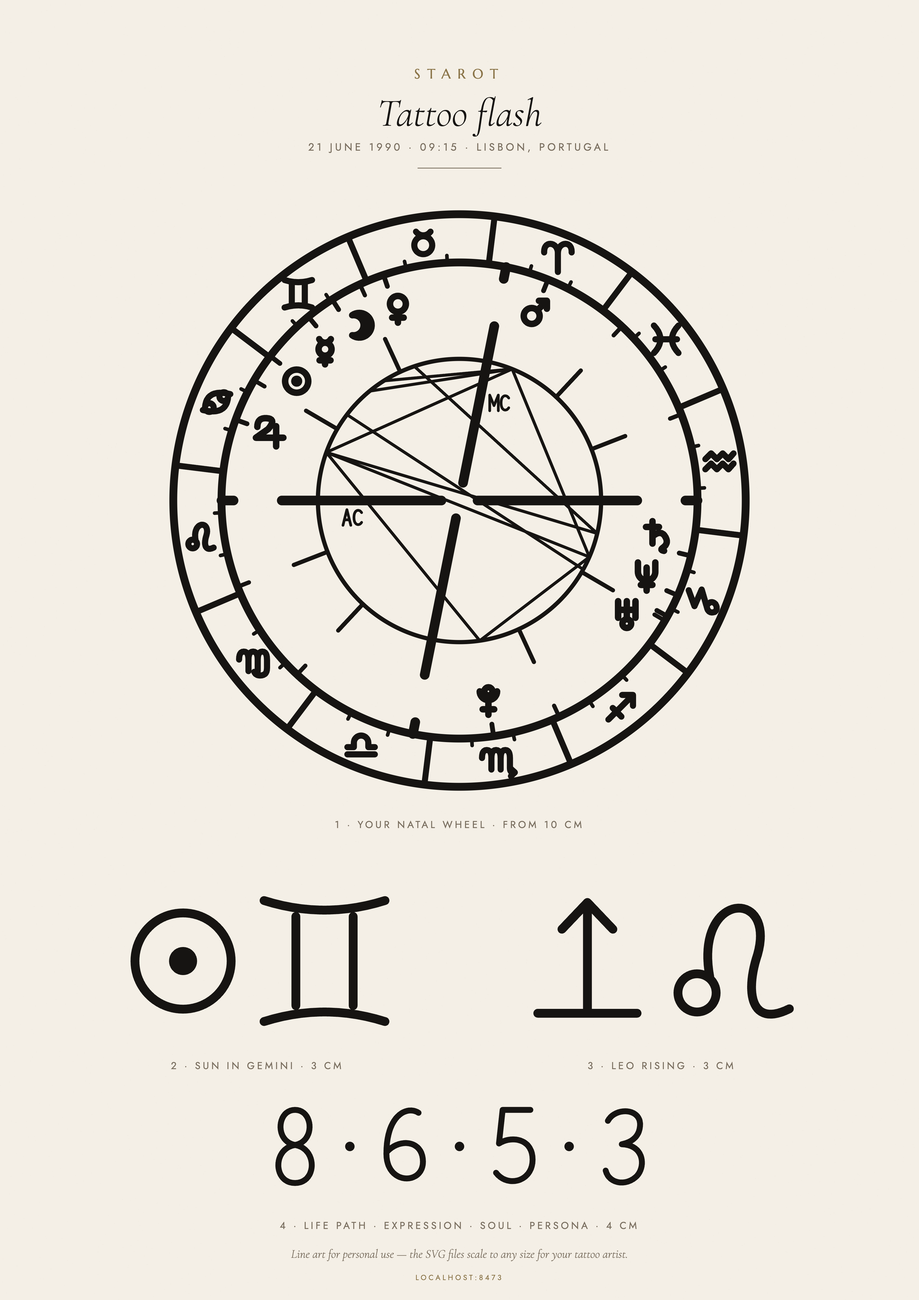
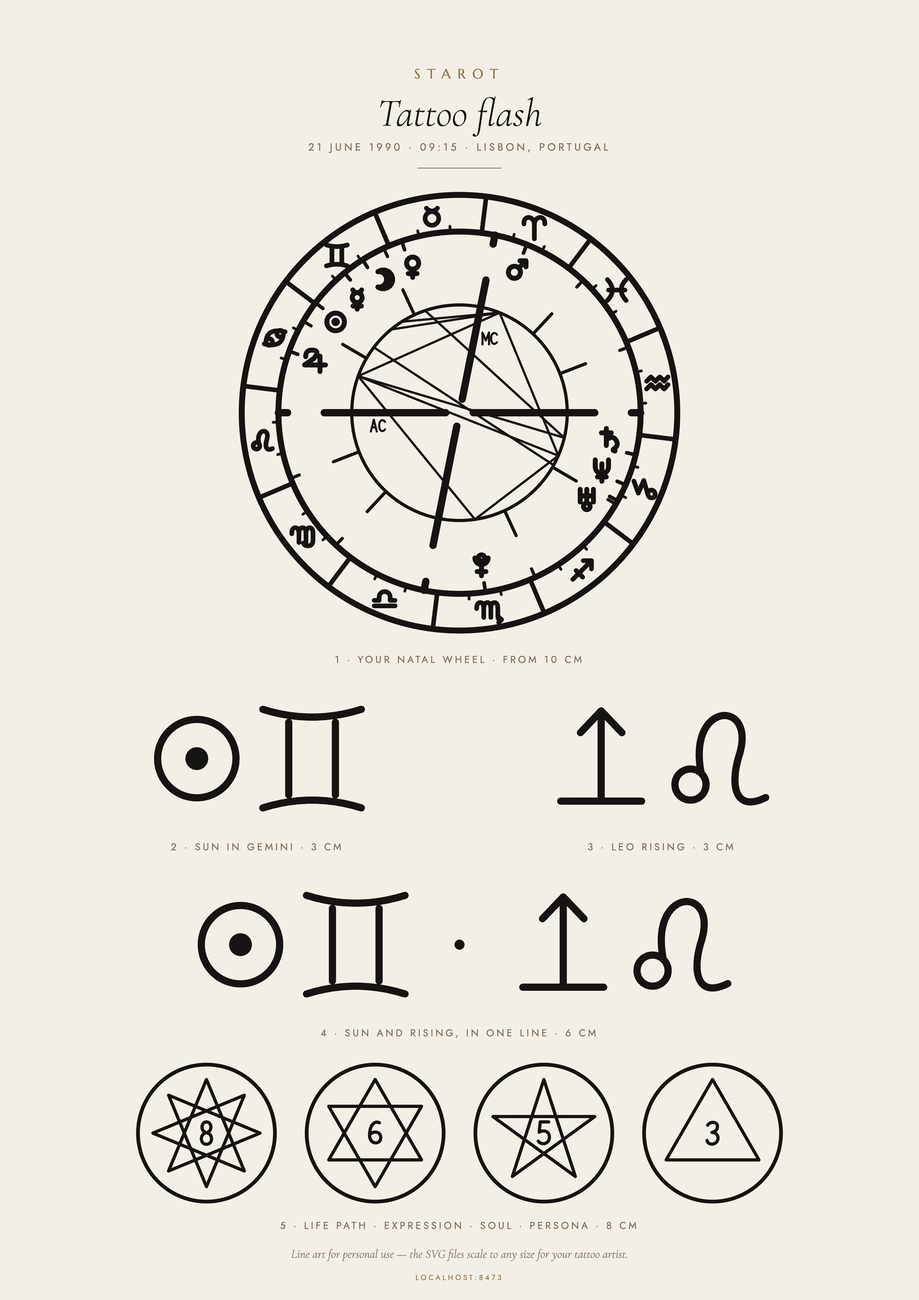
Five tattoo designs; the numbers become their seals
The flash sheet now carries five designs: 1 the natal wheel, 2 ☉ with
the Sun's sign, 3 the ascendant arrow with the rising sign, 4 both of
those in one line, and 5 Life Path · Expression · Soul · Persona drawn
as their seals — circle, figure and numeral, as in the readings — in a
row. The seals get heavier strokes in the tattoo row so they hold up
at small sizes. Without a birth hour, 3 and 4 drop out and the sheet
carries three designs with its own layout.

Also removes stale Portuguese strings that were overriding the new
unlock dialog text, and updates the showcase, unlock list, terms, docs
and example design files.

diff --git a/index.html b/index.html
@@ -383,7 +383,7 @@
   .ink-door{border-color:rgba(216,184,119,.42);background:radial-gradient(ellipse 120% 90% at 50% 0%,rgba(216,184,119,.08),rgba(5,6,9,.45) 70%)}
   .showcase{display:grid;grid-template-columns:1fr 1.25fr;gap:10px;width:min(620px,92vw)}
   .showcase figure{border:1px solid var(--hair);border-radius:12px;background:rgba(5,6,9,.5);padding:12px 14px 10px;display:flex;flex-direction:column;gap:8px;justify-content:center}
-  .showcase figure.big{grid-row:span 3}
+  .showcase figure.big{grid-row:span 4}
   .showcase .sc svg{width:100%;height:auto;display:block}
   .showcase figcaption{font-family:'Jost';font-size:8.5px;letter-spacing:.22em;text-transform:uppercase;color:var(--gold-dim);text-align:left}
   .showcase figcaption b{color:var(--gold);font-weight:400;margin-right:8px}
@@ -502,7 +502,7 @@
       </button>
       <button class="door ink-door" data-go="ink">
         <span class="glyph">✒</span>
-        <div><h3 data-t="door.ink.h">Your tattoos</h3><p data-t="door.ink.p">Your sky and your numbers, drawn as four tattoo designs on one flash sheet.</p><span class="tag" id="inkTag">€7</span></div>
+        <div><h3 data-t="door.ink.h">Your tattoos</h3><p data-t="door.ink.p">Your sky and your numbers, drawn as five tattoo designs on one flash sheet.</p><span class="tag" id="inkTag">€7</span></div>
         <span class="label" data-t="door.ink.l">The ink</span>
       </button>
     </div>
@@ -542,7 +542,7 @@
        The stars will turn back to that night and draw the wheel.</p>
     <span class="label ink-only" data-t="ink.label" hidden>Your readings, worn</span>
     <h1 class="ink-only" data-t="ink.h1" hidden>Wear your<br><em>sky.</em></h1>
-    <p class="ink-only" data-t="ink.p" hidden>Four tattoo designs drawn from your own chart and your own numbers. Preview them free;
+    <p class="ink-only" data-t="ink.p" hidden>Five tattoo designs drawn from your own chart and your own numbers. Preview them free;
        the print-ready flash sheet and the files for your tattoo artist are the one thing here that costs money.</p>
     <div class="showcase ink-only" id="showcase" hidden></div>
     <div class="saved" id="savedMaps" hidden></div>
@@ -631,13 +631,14 @@
   <div class="offer-box">
     <button class="offer-close" id="unlockClose" aria-label="Close">✕</button>
     <span class="label" data-t="unlock.label">Your tattoo flash</span>
-    <h3 id="unlockTitle" data-t="unlock.h">Four designs, yours to wear</h3>
+    <h3 id="unlockTitle" data-t="unlock.h">Your designs, yours to wear</h3>
     <span class="for" id="unlockFor"></span>
     <ul class="gets">
       <li><i>✶</i><span data-t="get.wheel"><b>Your natal wheel</b> — the whole sky of your birth, as one piece</span></li>
       <li><i>☉</i><span data-t="get.sun"><b>☉ beside your Sun sign</b> — small, for a wrist or an ankle</span></li>
       <li id="getRising"><i>↑</i><span data-t="get.rising"><b>↑ beside your Rising sign</b> — how you arrive, worn</span></li>
-      <li><i>⁂</i><span data-t="get.nums"><b>Your numbers in a row</b> — Life Path, Expression, Soul, Persona</span></li>
+      <li id="getSky"><i>☉</i><span data-t="get.sky"><b>Both in one line</b> — ☉ and ↑ with their signs, side by side</span></li>
+      <li><i>⁂</i><span data-t="get.nums"><b>Your numbers as seals, in a row</b> — Life Path, Expression, Soul, Persona, as drawn in your reading</span></li>
       <li><i>↓</i><span data-t="get.files"><b>A print-ready flash sheet</b> with them all, and each design as vector SVG and 4000 px PNG for your tattoo artist</span></li>
     </ul>
     <div class="price"><b id="unlockPrice">€7</b><span data-t="price.note">One payment<br>yours for good</span></div>
@@ -727,7 +728,7 @@ const UI_PT={
   'door.tarot.h':'Leitura de tarô','door.tarot.p':'Três arcanos — passado, presente, futuro — tirados dos vinte e dois.','door.tarot.l':'As cartas',
   'door.astro.h':'Mapa astral','door.astro.p':'O céu como estava quando você nasceu — planetas, casas, o ascendente.','door.astro.l':'A roda',
   'door.num.h':'Numerologia','door.num.p':'Os números escondidos no seu nome e na sua data — o caminho, a voz, a porta.',
-  'door.ink.h':'As suas tatuagens','door.ink.p':'O seu céu e os seus números, desenhados como quatro tatuagens numa folha de flash.','door.ink.l':'A tinta','door.num.l':'O selo',
+  'door.ink.h':'As suas tatuagens','door.ink.p':'O seu céu e os seus números, desenhados como cinco tatuagens numa folha de flash.','door.ink.l':'A tinta','door.num.l':'O selo',
   'free':'Grátis',
   'legal.terms':'Termos e privacidade','legal.share':'Compartilhar o observatório','legal.ent':'Para reflexão e entretenimento',
   'tarot.label':'Uma leitura em poeira de estrelas',
@@ -740,15 +741,13 @@ const UI_PT={
   'astro.label':'O céu na hora do seu nascimento',
   'astro.h1':'Onde estavam<br><em>os planetas?</em>',
   'astro.p':'Conte ao observatório a sua data, a sua hora e o lugar onde você respirou pela primeira vez. As estrelas vão voltar àquela noite e desenhar a roda.',
-  'ledger.free':'A roda em estrelas · o seu Sol',
-  'ledger.paid':'Um pôster em estrelas do seu céu · traço pronto para tatuagem · Lua · Ascendente · casas · aspectos · os dez planetas lidos',
   'f.hour':'Hora','f.min':'Minuto','f.notime':'Não sei a hora','f.place':'Cidade natal',
   'f.manual':'Minha cidade não está na lista — informar coordenadas','f.tz':'Fuso horário',
   'ph.city':'Comece a digitar uma cidade…',
   'cast':'☉ &nbsp;Desenhar o mapa',
   'privacy':'Calculado no seu navegador. O seu nome nunca sai desta página.',
   'ink.label':'As suas leituras, na pele','ink.h1':'Leve o seu céu<br><em>na pele.</em>',
-  'ink.p':'Quatro desenhos de tatuagem feitos a partir do seu mapa e dos seus números. Veja grátis; a folha de flash pronta para imprimir e os arquivos para o seu tatuador são a única coisa paga aqui.',
+  'ink.p':'Cinco desenhos de tatuagem feitos a partir do seu mapa e dos seus números. Veja grátis; a folha de flash pronta para imprimir e os arquivos para o seu tatuador são a única coisa paga aqui.',
   'f.iname':'Nome completo de nascimento — para os seus números','inkGo':'✒ &nbsp;Desenhar as minhas tatuagens',
   'num.label':'A aritmética de uma vida',
   'num.h1':'Todo nome é<br><em>um número.</em>',
@@ -761,24 +760,18 @@ const UI_PT={
   'offer.label':'Mantenha as lâmpadas acesas','offer.h':'Uma oferenda',
   'offer.p':'O observatório funciona com luz das estrelas e pequenas gentilezas. Se as estrelas disseram algo verdadeiro — ou algo útil, mesmo que não seja verdade — você pode deixar uma moeda no escuro. As estrelas reparam.',
   'offer.link':'✦ &nbsp;Fazer uma oferenda','offer.note':'A tigela de oferendas ainda está sendo esculpida — em breve.',
-  'unlock.label':'A sua folha de flash','unlock.h':'Quatro desenhos, para usar na pele',
+  'unlock.label':'A sua folha de flash','unlock.h':'Os seus desenhos, para usar na pele',
   'get.wheel':'<b>A sua roda natal</b> — o céu inteiro do seu nascimento, numa só peça',
   'get.sun':'<b>☉ ao lado do seu signo solar</b> — pequena, para o pulso ou o tornozelo',
   'get.rising':'<b>↑ ao lado do seu ascendente</b> — o jeito como você chega, na pele',
-  'get.nums':'<b>Os seus números numa linha</b> — Caminho, Expressão, Alma, Persona',
+  'get.sky':'<b>Os dois numa linha</b> — ☉ e ↑ com os seus signos, lado a lado',
+  'get.nums':'<b>Os seus números em selos, numa linha</b> — Caminho, Expressão, Alma, Persona, como na sua leitura',
   'get.files':'<b>Uma folha de flash pronta para imprimir</b> com todos eles, e cada desenho em SVG vetorial e PNG de 4000 px para o seu tatuador',
   'price.note':'Um pagamento só<br>seus para sempre',
   'unlockGo':'✒ &nbsp;Quero a minha folha','st.buy':'✒ &nbsp;Quero a minha folha',
   'trust':'Pagamento seguro pela Stripe · cartão · Apple Pay · Google Pay<br>Os dados do seu nascimento e os seus quatro números vão junto com o pagamento, para que o seu link possa reabrir a folha — o seu nome nunca vai · <a href="termos.html" target="_blank">Termos</a>',
   'st.label':'Pronto para tatuagem','st.svg':'↓ &nbsp;SVG · vetorial','st.png':'↓ &nbsp;PNG · 4000 px',
   'st.fine':'Traço preto em fundo transparente. O seu tatuador pode ajustar a espessura das linhas para a sua pele e o tamanho escolhido.',
-  'get.moon':'<b>A sua Lua</b> — o que você precisa para se sentir em segurança',
-  'get.rising':'<b>Ascendente e Meio do Céu</b> — como você chega, e para onde vai',
-  'get.planets':'<b>Os dez planetas lidos</b> nos seus signos e casas',
-  'get.houses':'<b>Casas, aspectos</b> e o equilíbrio dos seus elementos',
-  'price.note':'Um pagamento só<br>pôster e mapa, seus para sempre',
-  'unlockGo':'✦ &nbsp;Quebrar o selo',
-  'trust':'Pagamento seguro pela Stripe · cartão · Apple Pay · Google Pay<br>Os dados do seu nascimento vão junto com o pagamento, para que o seu link possa reabrir o mapa · <a href="termos.html" target="_blank">Termos</a>',
 };
 
 const PT_TEXT={
@@ -2067,8 +2060,8 @@ function showAstro(k){
     setPanel({pos:M.pos+T('The Sun','O Sol'),name:T(`Sun in ${s.name}`,`Sol em ${s.name}`),
       meta:[[M.deg,`${degStr(sun.lon)} ${s.name.toUpperCase()}`],[M.house,chart.houses?`${RN[sun.house-1]} — ${HOUSES[sun.house-1].toUpperCase()}`:NEED_HOUR],[M.el,elMod(s)]],
       prose:`<em>${T('The centre; your will and the light you steer by.','O centro; a sua vontade e a luz que guia você.')}</em> ${SUN_IN[sun.sign]}${houseLine(sun)}`+
-        inkCta(T(`☉ beside ${s.name}: a small tattoo for a wrist or an ankle — one of four designs drawn from your readings.`,
-                 `☉ ao lado de ${s.name}: uma tatuagem pequena para o pulso ou o tornozelo — um de quatro desenhos feitos das suas leituras.`))});
+        inkCta(T(`☉ beside ${s.name}: a small tattoo for a wrist or an ankle — one of five designs drawn from your readings.`,
+                 `☉ ao lado de ${s.name}: uma tatuagem pequena para o pulso ou o tornozelo — um de cinco desenhos feitos das suas leituras.`))});
   }else if(k===2){
     const s=SIGNS[moon.sign];
     morphTo({fn:(ctx,S)=>drawSeal(ctx,S,moon.sign,1),fill:{desk:.66,mobile:.3}});
@@ -2090,8 +2083,8 @@ function showAstro(k){
                                         `O regente do seu horizonte, <b>${{Sol:'o Sol',Lua:'a Lua'}[ruler.name]||ruler.name}</b>, está em <b>${SIGNS[ruler.sign].name}</b> na casa ${RN[ruler.house-1]} — a porta se abre para ${HOUSES[ruler.house-1]}.`)}</span>`:'')+
           `<span class="line">${T(`Your Midheaven — the public summit — is in <b>${SIGNS[m].name}</b>: the world will know you as ${SIGNS[m].flavor}.`,
                                   `O seu Meio do Céu — o cume público — está em <b>${SIGNS[m].name}</b>: o mundo vai conhecer você como alguém ${SIGNS[m].flavor}.`)}</span>`+
-          inkCta(T(`The ascendant arrow beside ${s.name}: how you arrive, worn — one of four designs drawn from your readings.`,
-                   `A seta do ascendente ao lado de ${s.name}: o jeito como você chega, na pele — um de quatro desenhos feitos das suas leituras.`))});
+          inkCta(T(`The ascendant arrow beside ${s.name}: how you arrive, worn — one of five designs drawn from your readings.`,
+                   `A seta do ascendente ao lado de ${s.name}: o jeito como você chega, na pele — um de cinco desenhos feitos das suas leituras.`))});
     }else{
       morphTo({fn:(ctx,S)=>{const c=S/2;ctx.lineWidth=S*.014;ctx.setLineDash([S*.03,S*.05]);ctx.beginPath();ctx.arc(c,c,S*.44,0,7);ctx.stroke();ctx.setLineDash([]);
         ctx.lineWidth=S*.03;ctx.beginPath();ctx.moveTo(c-S*.5,c);ctx.lineTo(c+S*.5,c);ctx.stroke();},fill:{desk:.66,mobile:.3}});
@@ -2173,15 +2166,15 @@ function nameNumbers(raw){
   }
   return {letters,expr:reduceNum(all),soul:reduceNum(vow),pers:reduceNum(con)};
 }
-function drawNumberSigil(ctx,S,n){
+function drawNumberSigil(ctx,S,n,wt=1){   /* wt>1 thickens the lines for small tattoo sizes */
   const c=S/2,R=S*.36;
-  ctx.lineWidth=S*.014;ctx.lineCap='round';ctx.lineJoin='round';
+  ctx.lineWidth=S*.014*wt;ctx.lineCap='round';ctx.lineJoin='round';
   ctx.beginPath();ctx.arc(c,c,S*.46,0,7);ctx.stroke();
   const poly=(k,step,rot)=>{ctx.beginPath();for(let i=0;i<=k;i++){const a=(rot-90+(i*step%k)*360/k)*D2R;ctx[i?'lineTo':'moveTo'](c+R*Math.cos(a),c+R*Math.sin(a));}ctx.stroke();};
   const tri=rot=>poly(3,1,rot);
-  ctx.lineWidth=S*.012;
+  ctx.lineWidth=S*.012*wt;
   switch(n){
-    case 1:ctx.beginPath();ctx.moveTo(c,c-R*.95);ctx.lineTo(c,c-R*.34);ctx.moveTo(c,c+R*.34);ctx.lineTo(c,c+R*.95);ctx.stroke();ctx.beginPath();ctx.arc(c,c-R*.95,S*.022,0,7);ctx.fill();break;
+    case 1:ctx.beginPath();ctx.moveTo(c,c-R*.95);ctx.lineTo(c,c-R*.34);ctx.moveTo(c,c+R*.34);ctx.lineTo(c,c+R*.95);ctx.stroke();ctx.beginPath();ctx.arc(c,c-R*.95,S*.022*Math.sqrt(wt),0,7);ctx.fill();break;
     case 2:for(const dx of [-R*.32,R*.32]){ctx.beginPath();ctx.arc(c+dx,c,R*.66,0,7);ctx.stroke();}break;
     case 3:tri(0);break;
     case 4:poly(4,1,45);break;
@@ -2196,7 +2189,7 @@ function drawNumberSigil(ctx,S,n){
     case 22:poly(4,1,45);poly(4,1,0);break;
     case 33:tri(0);tri(40);tri(80);break;   /* three triangles, evenly turned: a nine-point star */
   }
-  glyphText(ctx,String(n),c,c,n>9?S*.12:S*.15,S*.012);
+  glyphText(ctx,String(n),c,c,n>9?S*.12:S*.15,S*.012*wt);
 }
 
 let numbers=null;
@@ -2213,7 +2206,7 @@ function computeNumbers(name,date){
   n.maturity=reduceNum(n.life+n.expr);
   return n;
 }
-/* the four that go on the skin: Life Path, Expression, Soul, Persona */
+/* the four numbers that go on the skin, as seals: Life Path, Expression, Soul, Persona */
 const numsFor=(name,date)=>{const n=computeNumbers(name,date);return [n.life,n.expr,n.soul,n.pers];};
 $('numForm').onsubmit=e=>{
   e.preventDefault();
@@ -2251,8 +2244,8 @@ function showNumber(k){
   const row=[numbers.life,numbers.expr,numbers.soul,numbers.pers].join(' · ');
   setPanel({pos:`${T('Exhibit — ','Exposição — ')}${p.pos}`,name:`${n} · ${N_.title}`,meta,
     prose:`<em>${p.intro}</em> ${N_.prose}<span class="line">${p.tail(n)}</span>${extra}`+
-      inkCta(T(`<b style="color:var(--gold);font-weight:400">${row}</b> — your Life Path, Expression, Soul and Persona in one line, drawn as a tattoo with your chart.`,
-               `<b style="color:var(--gold);font-weight:400">${row}</b> — o seu Caminho, Expressão, Alma e Persona numa linha, desenhados como tatuagem junto com o seu mapa.`))});
+      inkCta(T(`<b style="color:var(--gold);font-weight:400">${row}</b> — your Life Path, Expression, Soul and Persona as their seals in one row, drawn as a tattoo with your chart.`,
+               `<b style="color:var(--gold);font-weight:400">${row}</b> — o seu Caminho, Expressão, Alma e Persona em selos numa linha, desenhados como tatuagem junto com o seu mapa.`))});
 }
 
 /* ═══ THE CORNER BUTTON — an offering, or the tattoo flash ════ */
@@ -2282,9 +2275,10 @@ if(CONFIG.donationUrl){
 }
 addEventListener('keydown',e=>{if(e.key==='Escape'){offer.classList.remove('show');$('unlock').classList.remove('show');$('stencil').classList.remove('show');}});
 
-/* ═══ THE TATTOOS — four designs drawn from your own readings ═══
-   1 the natal wheel · 2 ☉ beside the Sun's sign · 3 the ascendant arrow beside
-   the rising sign · 4 Life Path, Expression, Soul and Persona in one row.
+/* ═══ THE TATTOOS — five designs drawn from your own readings ═══
+   1 the natal wheel · 2 ☉ beside the Sun's sign · 3 the ascendant arrow beside the
+   rising sign · 4 both in one line · 5 Life Path, Expression, Soul and Persona as
+   their seals, in a row. Without a birth hour 3 and 4 can't exist, so the sheet has three.
    Free to preview; the flash sheet and the files are the product. */
 function glyphAsc(ctx,x,y,s,lw){   /* the ascendant: an arrow rising from the horizon */
   ctx.save();ctx.translate(x,y);ctx.scale(s,s);ctx.lineWidth=lw/s;ctx.lineCap='round';ctx.lineJoin='round';
@@ -2293,16 +2287,17 @@ function glyphAsc(ctx,x,y,s,lw){   /* the ascendant: an arrow rising from the ho
 }
 function drawSunPair(ctx,W,H,sign){glyphPlanet(ctx,0,W*.29,H/2,H*.34,H*.05);glyphSign(ctx,sign,W*.69,H/2,H*.36,H*.05);}
 function drawRisingPair(ctx,W,H,sign){glyphAsc(ctx,W*.29,H/2,H*.36,H*.05);glyphSign(ctx,sign,W*.69,H/2,H*.36,H*.05);}
-function drawNumberRow(ctx,W,H,nums){
-  let h=H*.62,s=h/2;const lw=H*.05,strs=nums.map(String);
-  const gw=t=>1.4*s*(t.length-1)+1.1*s,G=()=>1.9*s;
-  let total=strs.reduce((a,t)=>a+gw(t),0)+G()*(strs.length-1);
-  if(total>W*.94){const f=W*.94/total;h*=f;s=h/2;total*=f;}
-  let x=(W-total)/2;
-  strs.forEach((t,i)=>{
-    const w=gw(t);glyphText(ctx,t,x+w/2,H/2,h,lw);x+=w;
-    if(i<strs.length-1){ctx.beginPath();ctx.arc(x+G()/2,H/2,lw*.8,0,7);ctx.fill();x+=G();}
-  });
+/* ☉ sign · ↑ sign — the two pairs in one line, a dot between them */
+function drawSkyRow(ctx,W,H,sunSign,ascSign){
+  glyphPlanet(ctx,0,W*.12,H/2,H*.34,H*.05);glyphSign(ctx,sunSign,W*.32,H/2,H*.36,H*.05);
+  ctx.beginPath();ctx.arc(W/2,H/2,H*.035,0,7);ctx.fill();
+  glyphAsc(ctx,W*.68,H/2,H*.36,H*.05);glyphSign(ctx,ascSign,W*.88,H/2,H*.36,H*.05);
+}
+/* the four numbers as their seals — circle, figure and numeral, as drawn in the readings */
+const SEAL_ROW=4.4;   /* width ÷ height of the row */
+function drawSealRow(ctx,W,H,nums){
+  const S=Math.min(H,W/SEAL_ROW),g=(W-nums.length*S)/(nums.length-1),y=(H-S)/2;
+  nums.forEach((n,i)=>{ctx.save();ctx.translate(i*(S+g),y);drawNumberSigil(ctx,S,n,1.8);ctx.restore();});
 }
 
 let inkNums=null,sheetId='',inkList=[];
@@ -2311,32 +2306,44 @@ const ownedSheet=id=>store.get('sheets',[]).find(x=>x.id===id);
 const sheetOpen=()=>!PAYWALL||!!ownedSheet(sheetId);
 const slug=t=>fold(t).replace(/[^a-z0-9]+/g,'-').replace(/^-|-$/g,'');
 function inkDesigns(){
-  const sun=chart.bodies[0],H=chart.houses,ss=SIGNS[sun.sign];
+  const sun=chart.bodies[0],H=chart.houses,ss=SIGNS[sun.sign],from=T('from','a partir de');
   const list=[
     {kind:'wheel',w:1,h:1,draw:(c,W)=>drawWheel(c,W,chart,.6),title:T('Your natal wheel','A sua roda natal'),file:'natal-wheel',size:10,
      place:T('upper back, forearm, thigh','costas, antebraço, coxa'),intro:T('The whole sky of your birth, as one piece.','O céu inteiro do seu nascimento, numa só peça.')},
     {kind:'sun',w:2,h:1,draw:(c,W,h)=>drawSunPair(c,W,h,sun.sign),title:T(`Sun in ${ss.name}`,`Sol em ${ss.name}`),file:`sun-${slug(ss.name)}`,size:3,
      place:T('wrist, ankle, behind the ear','pulso, tornozelo, atrás da orelha'),intro:T('☉ — the circle with its centre — beside the sign the Sun stood in.','☉ — o círculo com o seu centro — ao lado do signo onde o Sol estava.')}];
-  if(H){const rs=SIGNS[signOf(H.asc)];
-    list.push({kind:'rising',w:2,h:1,draw:(c,W,h)=>drawRisingPair(c,W,h,signOf(H.asc)),title:risingName(rs),file:`rising-${slug(rs.name)}`,size:3,
-      place:T('collarbone, inner arm, nape','clavícula, parte interna do braço, nuca'),intro:T('The ascendant arrow over the horizon, beside the sign that was rising when you arrived.','A seta do ascendente sobre o horizonte, ao lado do signo que subia quando você chegou.')});}
-  list.push({kind:'nums',w:4,h:1,draw:(c,W,h)=>drawNumberRow(c,W,h,inkNums),title:`${T('Your numbers','Os seus números')} · ${inkNums.join(' ')}`,file:`numbers-${inkNums.join('-')}`,size:4,
-    place:T('wrist, ribs, along a finger','pulso, costelas, ao longo de um dedo'),intro:T('Life Path · Expression · Soul · Persona, in one line.','Caminho · Expressão · Alma · Persona, numa linha.')});
+  if(H){const ra=signOf(H.asc),rs=SIGNS[ra];
+    list.push({kind:'rising',w:2,h:1,draw:(c,W,h)=>drawRisingPair(c,W,h,ra),title:risingName(rs),file:`rising-${slug(rs.name)}`,size:3,
+      place:T('collarbone, inner arm, nape','clavícula, parte interna do braço, nuca'),intro:T('The ascendant arrow over the horizon, beside the sign that was rising when you arrived.','A seta do ascendente sobre o horizonte, ao lado do signo que subia quando você chegou.')});
+    list.push({kind:'sky',w:4,h:1,draw:(c,W,h)=>drawSkyRow(c,W,h,sun.sign,ra),title:T('Sun and Rising, in one line','Sol e Ascendente, numa linha'),file:`sun-and-rising-${slug(ss.name)}-${slug(rs.name)}`,size:6,
+      place:T('forearm, collarbone, along the spine','antebraço, clavícula, ao longo da coluna'),intro:T(`☉ ${ss.name} · ↑ ${rs.name} — your centre and your door, side by side.`,`☉ ${ss.name} · ↑ ${rs.name} — o seu centro e a sua porta, lado a lado.`)});}
+  list.push({kind:'seals',w:SEAL_ROW,h:1,draw:(c,W,h)=>drawSealRow(c,W,h,inkNums),title:`${T('Your numbers','Os seus números')} · ${inkNums.join(' · ')}`,file:`numbers-${inkNums.join('-')}`,size:8,
+    place:T('forearm, along the spine, ribs','antebraço, ao longo da coluna, costelas'),
+    intro:T('Life Path · Expression · Soul · Persona — each number with its seal, as in your reading, in one row.','Caminho · Expressão · Alma · Persona — cada número com o seu selo, como na sua leitura, numa linha.')});
+  for(const d of list)d.cap=d.kind==='wheel'?`${d.title} · ${from} 10 cm`:d.kind==='seals'?`${T('Life Path · Expression · Soul · Persona','Caminho · Expressão · Alma · Persona')} · ${d.size} cm`:`${d.title} · ${d.size} cm`;
   return list;
 }
 function flashLine(){
   const {date,h,mi,noTime}=chartMeta;
   return T(`${date.d} ${MONTHS[date.m-1]} ${date.y}`,`${date.d} de ${MONTHS[date.m-1].toLowerCase()} de ${date.y}`)+(noTime?'':` · ${hhmm(h,mi)}`)+` · ${chartMeta.place.full}`;
 }
-/* the sheet's layout, used both for print and for the star figure (A-series proportions) */
+/* the sheet's layout (A3 at 300 dpi = 3508 px wide), used for print and for the star figure.
+   Each entry: design, centre x (fraction of width), top, width, caption baseline. */
+function flashSlots(){
+  const by=k=>inkList.find(d=>d.kind===k);
+  return by('rising')?[
+    [by('wheel'),.5,700,1750,2530],
+    [by('sun'),.28,2620,1100,3245],[by('rising'),.72,2620,1100,3245],
+    [by('sky'),.5,3330,2200,3955],
+    [by('seals'),.5,4040,2500,4690]]:[
+    [by('wheel'),.5,720,2150,2955],
+    [by('sun'),.5,3120,1250,3825],
+    [by('seals'),.5,3980,2600,4660]];
+}
 function layoutFlash(ctx,W,txt){
-  const f=W/3508,by=k=>inkList.find(d=>d.kind===k);
-  const box=(dz,cx,top,w)=>{const h=w*dz.h/dz.w;ctx.save();ctx.translate(cx-w/2,top);dz.draw(ctx,w,h);ctx.restore();};
-  const wheel=by('wheel'),sun=by('sun'),ris=by('rising'),nums=by('nums');
-  box(wheel,W/2,760*f,2300*f);
-  if(ris){box(sun,W*.28,3330*f,1350*f);box(ris,W*.72,3330*f,1350*f);}else box(sun,W/2,3330*f,1350*f);
-  box(nums,W/2,4150*f,1800*f);
-  if(txt)txt(f,{wheel,sun,ris,nums});
+  const f=W/3508,slots=flashSlots();
+  for(const [dz,cx,top,w] of slots){const h=w*f*dz.h/dz.w;ctx.save();ctx.translate(cx*W-w*f/2,top*f);dz.draw(ctx,w*f,h);ctx.restore();}
+  if(txt)txt(f,slots);
 }
 async function renderFlash(W=3508,wm=false){
   try{await Promise.all(["300 60px 'Cormorant Garamond'","italic 300 60px 'Cormorant Garamond'","400 30px Jost","400 30px Marcellus"].map(f=>document.fonts.load(f)));}catch(e){}
@@ -2348,17 +2355,13 @@ async function renderFlash(W=3508,wm=false){
   const t=(s,font,col,y,sp,xx=W/2)=>{x.font=font;x.fillStyle=col;x.textAlign='center';x.textBaseline='alphabetic';
     if('letterSpacing' in x)x.letterSpacing=sp||'0px';x.fillText(s,xx,y);if('letterSpacing' in x)x.letterSpacing='0px';};
   x.strokeStyle=x.fillStyle=ink;
-  layoutFlash(x,W,(f,dz)=>{
+  layoutFlash(x,W,(f,dz)=>{   /* dz: the slots, in order */
     t('STAROT',`400 ${K(52)}px Marcellus`,gold,K(300),`${K(26)}px`);
     t(T('Tattoo flash','Folha de flash'),`italic 300 ${K(150)}px 'Cormorant Garamond'`,ink,K(480));
     t(flashLine().toUpperCase(),`400 ${K(40)}px Jost`,soft,K(575),`${K(10)}px`);
     x.fillStyle=soft;x.fillRect(W/2-K(160),K(640),K(320),K(3));
     const lab=(n,s,xx,y)=>t(`${n} · ${s}`.toUpperCase(),`400 ${K(38)}px Jost`,soft,y,`${K(9)}px`,xx);
-    let n=1;const from=T('from','a partir de');
-    lab(n++,`${dz.wheel.title} · ${from} 10 cm`,W/2,K(3160));
-    if(dz.ris){lab(n++,`${dz.sun.title} · 3 cm`,W*.28,K(4080));lab(n++,`${dz.ris.title} · 3 cm`,W*.72,K(4080));}
-    else lab(n++,`${dz.sun.title} · ${from} 3 cm`,W/2,K(4080));
-    lab(n,`${T('Life Path · Expression · Soul · Persona','Caminho · Expressão · Alma · Persona')} · 4 cm`,W/2,K(4690));
+    dz.forEach(([d,cx,,,ly],i)=>lab(i+1,d.cap,cx*W,K(ly)));
     t(T('Line art for personal use — the SVG files scale to any size for your tattoo artist.','Traço para uso pessoal — os arquivos SVG escalam para qualquer tamanho para o seu tatuador.'),
       `italic 300 ${K(46)}px 'Cormorant Garamond'`,soft,K(4800));
     t((location.host+location.pathname).replace(/\/$/,'').toUpperCase(),`400 ${K(28)}px Jost`,gold,K(4885),`${K(8)}px`);
@@ -2373,8 +2376,8 @@ async function renderFlash(W=3508,wm=false){
   return c;
 }
 
-const INK_FACES={wheel:'✶',sun:'☉',rising:'↑',nums:'⁂'};
-const INK_LABELS={wheel:T('Map','Mapa'),sun:T('Sun','Sol'),rising:T('Rising','Ascendente'),nums:T('Numbers','Números')};
+const INK_FACES={wheel:'✶',sun:'☉',rising:'↑',sky:'☉↑',seals:'⁂'};
+const INK_LABELS={wheel:T('Map','Mapa'),sun:T('Sun','Sol'),rising:T('Rising','Ascendente'),sky:T('Line','Linha'),seals:T('Numbers','Números')};
 function castInk(inp,nums){
   prepChart(inp);inkNums=nums;sheetId=sheetKey(chartInput,nums);
   const own=ownedSheet(sheetId);
@@ -2454,8 +2457,12 @@ let showcaseDone=false;
 function renderShowcase(){
   if(showcaseDone)return;showcaseDone=true;
   const ch=computeChart(Date.UTC(1990,5,21,8,15),38.72,-9.14,true),nums=[8,6,5,3];
-  const items=[[1,(c,W)=>drawWheel(c,W,ch,.6),T('Natal wheel','Roda natal')],[2,(c,W,H)=>drawSunPair(c,W,H,ch.bodies[0].sign),T('☉ + your Sun sign','☉ + o seu signo solar')],
-    [2,(c,W,H)=>drawRisingPair(c,W,H,signOf(ch.houses.asc)),T('↑ + your Rising sign','↑ + o seu ascendente')],[4,(c,W,H)=>drawNumberRow(c,W,H,nums),T('Your numbers in a row','Os seus números numa linha')]];
+  const sun=ch.bodies[0].sign,asc=signOf(ch.houses.asc);
+  const items=[[1,(c,W)=>drawWheel(c,W,ch,.6),T('Natal wheel','Roda natal')],
+    [2,(c,W,H)=>drawSunPair(c,W,H,sun),T('☉ + your Sun sign','☉ + o seu signo solar')],
+    [2,(c,W,H)=>drawRisingPair(c,W,H,asc),T('↑ + your Rising sign','↑ + o seu ascendente')],
+    [4,(c,W,H)=>drawSkyRow(c,W,H,sun,asc),T('Both, in one line','Os dois, numa linha')],
+    [SEAL_ROW,(c,W,H)=>drawSealRow(c,W,H,nums),T('Your numbers as seals','Os seus números em selos')]];
   $('showcase').innerHTML=items.map(([w,draw,cap],i)=>{
     const W=400,H=Math.round(400/w),c=new SvgCtx(W,H);c.strokeStyle=c.fillStyle='#d8b877';draw(c,W,H);
     return `<figure class="${w>1?'wide':'big'}"><div class="sc">${c.svg()}</div><figcaption><b>${i+1}</b>${cap}</figcaption></figure>`;}).join('');
@@ -2554,7 +2561,8 @@ const unlockEl=$('unlock');
 function openUnlock(){
   if(!PAYWALL||!chartInput||!inkNums)return;
   $('unlockFor').textContent=`${T('For','Para')} ${bornLine()} · ${chartMeta.place.full}`;
-  $('getRising').hidden=!chart.houses;
+  $('getRising').hidden=$('getSky').hidden=!chart.houses;
+  $('unlockTitle').textContent=T(`${inkList.length===5?'Five':'Three'} designs, yours to wear`,`${inkList.length===5?'Cinco':'Três'} desenhos, para usar na pele`);
   $('unlockNote').textContent='';
   stencil.classList.remove('show');
   unlockEl.classList.add('show');

diff --git a/terms.html b/terms.html
@@ -57,9 +57,10 @@
   <ul>
     <li><b>Every reading is free</b>: tarot, the full astral map with every planet, house and aspect, numerology, and the star poster of your sky.
       You may leave a voluntary offering; it buys nothing and is not refundable, because it is a gift.</li>
-    <li><b>The tattoo flash</b> costs <b>€7</b>, VAT included where it applies, paid once. For one birth chart and one name you get tattoo designs
-      drawn from your readings — your natal wheel, ☉ beside your Sun sign, the ascendant arrow beside your Rising sign (when the hour of birth is
-      known), and your Life Path, Expression, Soul and Persona numbers in a row — as a print-ready flash sheet (A3, 300 dpi) and as separate files
+    <li><b>The tattoo flash</b> costs <b>€7</b>, VAT included where it applies, paid once. For one birth chart and one name you get five tattoo designs
+      drawn from your readings — your natal wheel, ☉ beside your Sun sign, the ascendant arrow beside your Rising sign, both of those in one line,
+      and your Life Path, Expression, Soul and Persona numbers as their seals in a row (without the hour of birth, the two Rising designs can't be
+      drawn, so you get three) — as a print-ready flash sheet (A3, 300 dpi) and as separate files
       for each design (vector SVG and 4000 px PNG).</li>
   </ul>
 

diff --git a/termos.html b/termos.html
@@ -58,8 +58,9 @@
     <li><b>Todas as leituras são grátis</b>: o tarô, o mapa astral completo com todos os planetas, casas e aspectos, a numerologia e o pôster em estrelas
       do seu céu. Você pode deixar uma oferenda voluntária; ela não compra nada e não é reembolsável, porque é um presente.</li>
     <li><b>A folha de flash</b> custa <b>€7</b>, com IVA incluído quando se aplica, num único pagamento. Para um mapa de nascimento e um nome, você recebe
-      desenhos de tatuagem feitos a partir das suas leituras — a sua roda natal, ☉ ao lado do seu signo solar, a seta do ascendente ao lado do seu ascendente
-      (quando a hora de nascimento é conhecida) e os seus números de Caminho, Expressão, Alma e Persona numa linha — numa folha de flash pronta para imprimir
+      cinco desenhos de tatuagem feitos a partir das suas leituras — a sua roda natal, ☉ ao lado do seu signo solar, a seta do ascendente ao lado do seu
+      ascendente, os dois numa linha, e os seus números de Caminho, Expressão, Alma e Persona em selos numa linha (sem a hora de nascimento, os dois desenhos
+      do ascendente não podem ser feitos, e você recebe três) — numa folha de flash pronta para imprimir
       (A3, 300 dpi) e em arquivos separados para cada desenho (SVG vetorial e PNG de 4000 px).</li>
   </ul>
 

diff --git a/docs/MEDIA.md b/docs/MEDIA.md
@@ -12,8 +12,8 @@ It stays hidden until `CONFIG.gallery` in `index.html` has entries.
 | 3 | `design-2-sun-gemini.png` | inside of the wrist | ~3 cm |
 | 4 | `design-2-sun-gemini.png` | ankle | ~3 cm |
 | 5 | `design-3-rising-leo.png` | collarbone | ~4 cm |
-| 6 | `design-4-numbers-8-6-5-3.png` | along the forearm | ~5 cm |
-| 7 | `design-4-numbers-8-6-5-3.png` | behind the ear / side of a finger | ~3 cm |
+| 6 | `design-4-sun-and-rising-gemini-leo.png` | along the forearm / collarbone | ~6 cm |
+| 7 | `design-5-numbers-8-6-5-3.png` | along the forearm or down the spine | ~8 cm |
 | 8 | `design-flash-sheet.png` | the printed sheet on a tattoo artist's desk | product shot |
 
 Plus 3–4 short videos (4–6 s): a wrist turning slowly, a push-in on the forearm wheel,
@@ -49,7 +49,7 @@ the placement and size.
 
 These models often bend small symbols. STAROT promises accuracy, so throw away any render
 where a glyph is wrong: a Gemini sign that isn't ♊, a missing centre dot in ☉, wrong
-numbers. If a model keeps distorting the symbols, a reliable fallback is a real photo of
+numbers or figures inside the seals. If a model keeps distorting the symbols, a reliable fallback is a real photo of
 skin with the PNG laid over it in an editor (Photopea or Photoshop, blend mode *Multiply*,
 a little blur and opacity around 85%).
 

diff --git a/README.md b/README.md
@@ -45,9 +45,10 @@ Every reading is free and complete: tarot, the full astral map (all ten planets,
 aspects, Moon and Rising), numerology, and a 3600 × 4500 star poster of your sky, with an
 optional offering (a pay-what-you-want link).
 
-**The product is the tattoo flash, €7**: four designs drawn from your own readings —
+**The product is the tattoo flash, €7**: five designs drawn from your own readings —
 1. the natal wheel, 2. ☉ beside your Sun sign, 3. the ascendant arrow beside your Rising
-sign (needs the birth hour), 4. Life Path, Expression, Soul and Persona in a row — on a
+sign, 4. both of those in one line, 5. Life Path, Expression, Soul and Persona as their
+seals in a row (3 and 4 need the birth hour) — on a
 print-ready A3 flash sheet, plus each design as vector SVG and 4000 px PNG in a ZIP for
 the tattoo artist. The fourth door, **Your tattoos**, takes name, date, hour and place;
 every free reading also ends with **Make it a tattoo**, which carries what it already

diff --git a/docs/LAUNCH.md b/docs/LAUNCH.md
@@ -1,6 +1,6 @@
 # Launching the tattoo flash
 
-Every reading is free. The one paid thing is the €7 tattoo flash (four designs, a print-ready
+Every reading is free. The one paid thing is the €7 tattoo flash (five designs, a print-ready
 sheet and the files). The code is ready; nothing charges money until you finish these steps.
 
 ## 0 · Before you sell anything (Portugal)
